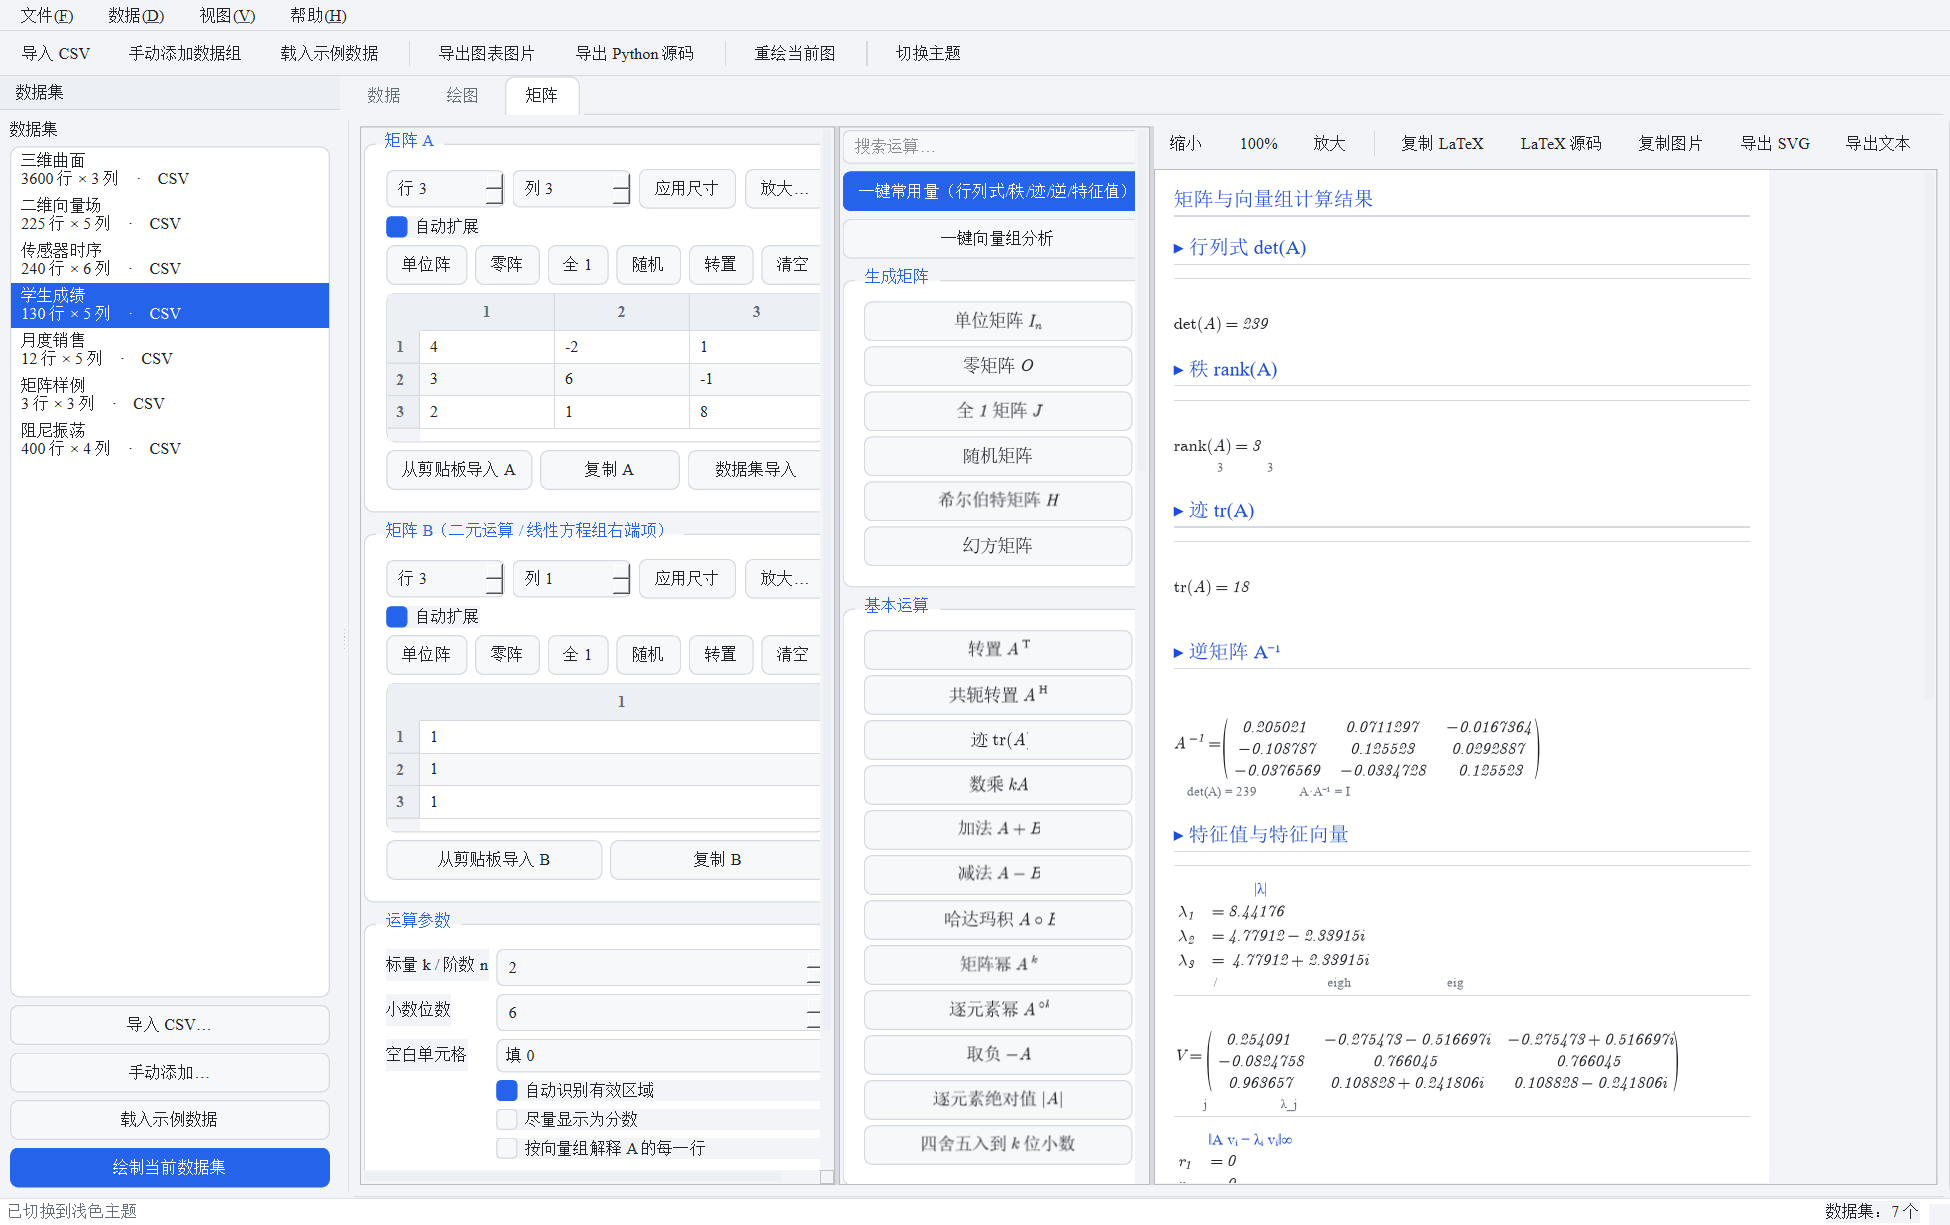
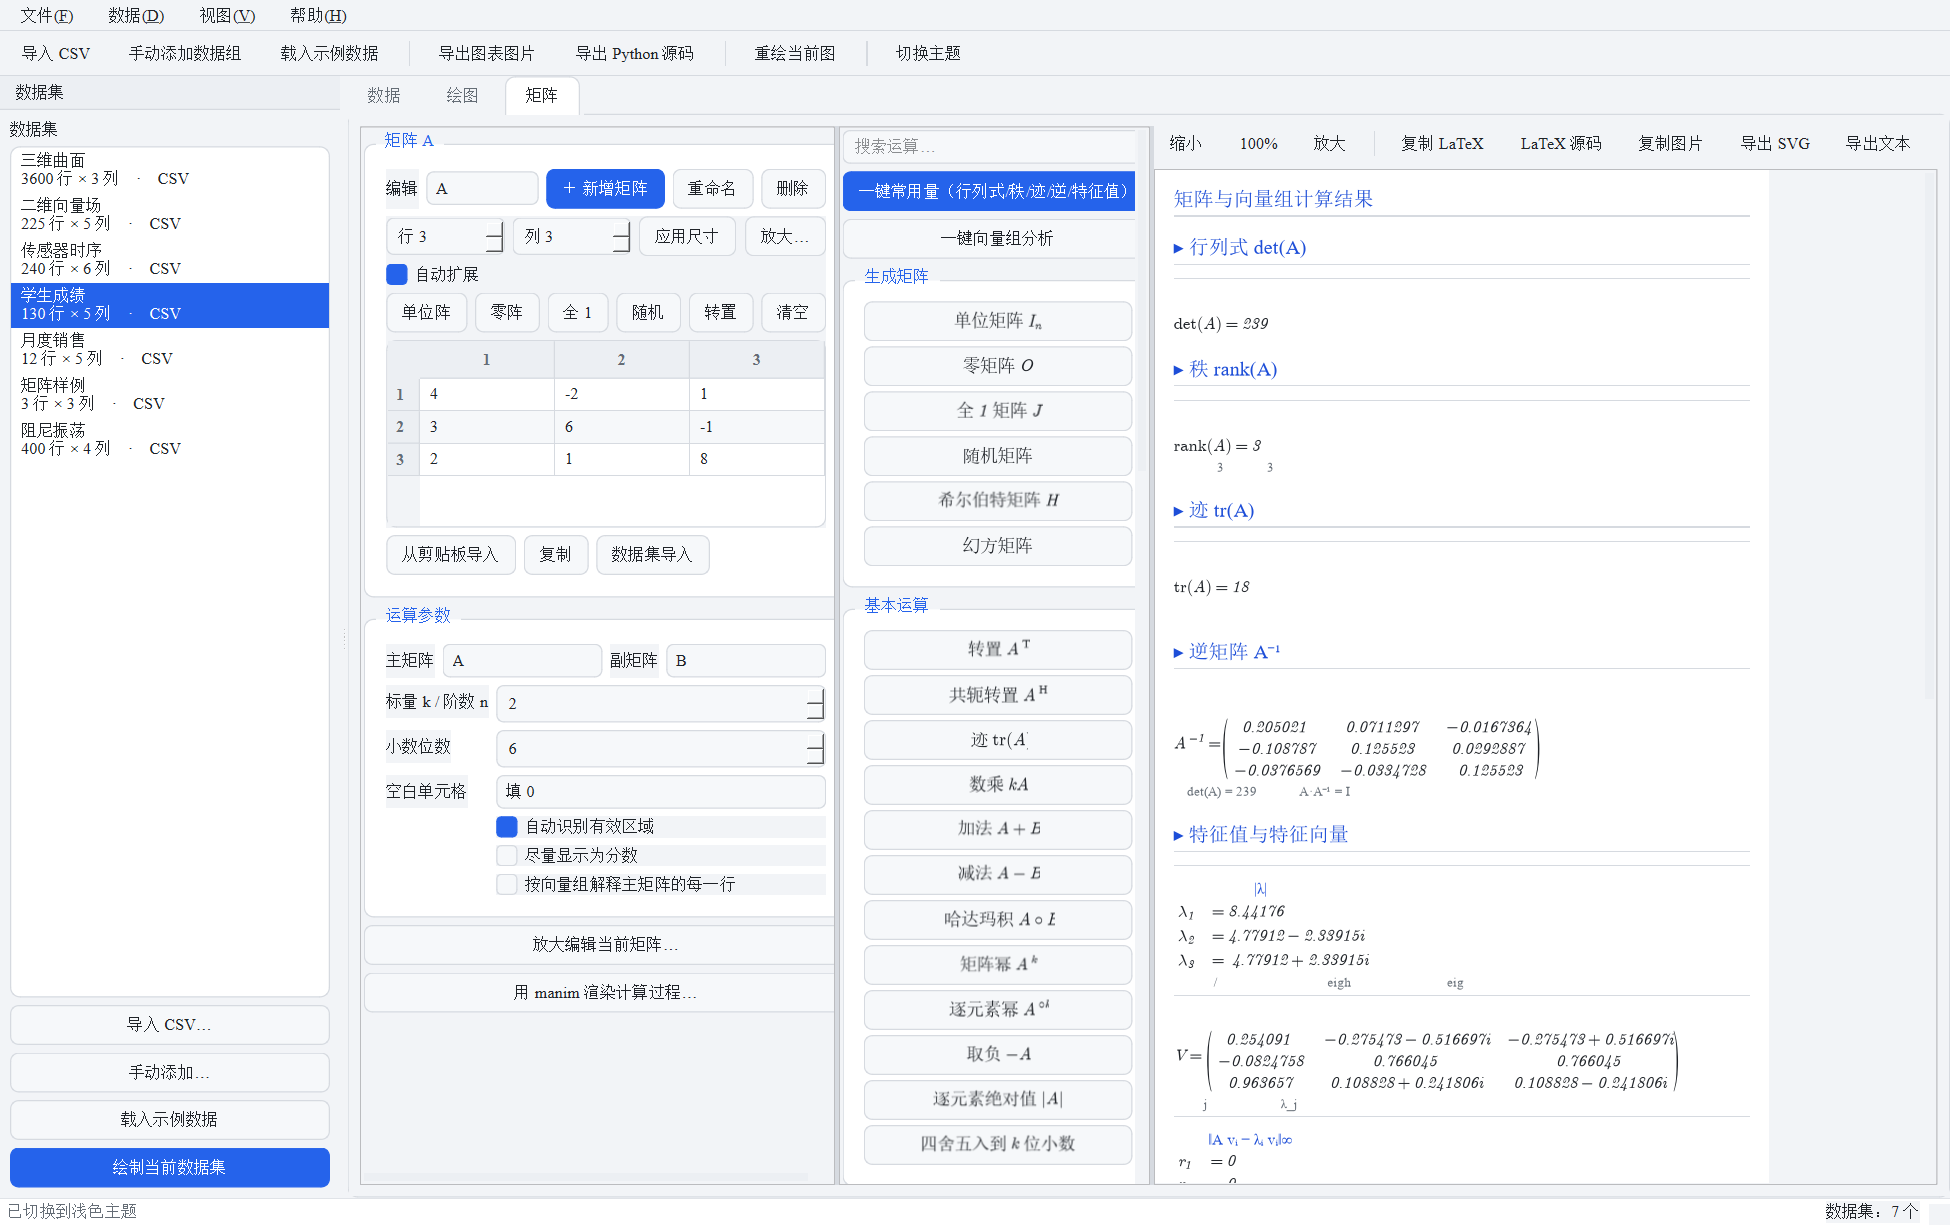
v1.3：多矩阵支持、方向键触发的自动扩展、放大编辑默认 15x15
- 矩阵从固定 A/B 改为一组可增删的矩阵：新增/重命名/删除，
  主矩阵/副矩阵下拉框决定运算与 manim 动画使用哪两个矩阵
- 矩阵页按钮改为作用于当前编辑的矩阵（从剪贴板导入/复制/数据集导入）
- 放大编辑窗口默认给出 15x15 大画布（旧版只有 3x3，等于没放大）
- 自动扩展改为方向键触发：最后一行按 ↓ / 最后一列按 → 才新增行列并跳到新空白格；
  填写数据或点击单元格不再凭空多出空行
- 行列上限 400 -> 600
- .gitignore 修复：_*.py 会误伤 __init__.py，改为根目录限定的 /_*.py
- 测试：88 项集成 + 48 项界面回归全部通过

diff --git a/tools/capture_screenshots.py b/tools/capture_screenshots.py
@@ -98,8 +98,15 @@ def main() -> int:
     win.tabs.setCurrentIndex(2)
     matrix_tab = win.matrix_tab
     matrix_tab.editor_a.set_matrix([[4, -2, 1], [3, 6, -1], [2, 1, 8]])
+    matrix_tab.editor_b.set_matrix([[1], [1], [1]])
+    # 演示「新增矩阵」：再加一个 C，并可被选为主/副矩阵参与运算
+    matrix_tab.add_matrix("C").set_matrix([[1, 0, 2], [0, 1, 0], [3, 0, 1]])
+    matrix_tab.main_combo.setCurrentText("A")
+    matrix_tab.other_combo.setCurrentText("B")
+    matrix_tab.editor_combo.setCurrentText("A")
+    app.processEvents()
     matrix_tab.run_common()
-    for _ in range(40):                              # 队列里是一个一个渲染的
+    for _ in range(40):                              # 队列里是一块一块渲染的
         app.processEvents()
         settle(120)
         if __import__("ui.widgets", fromlist=["latex_pixmaps"]).latex_pixmaps().pending() == 0:

diff --git a/ui/matrix_tab.py b/ui/matrix_tab.py
@@ -148,7 +148,7 @@ class MatrixTab(QWidget):
         self.editor_combo = QComboBox()
         self.editor_combo.setToolTip("选择当前要编辑的矩阵")
         self.editor_combo.currentIndexChanged.connect(self._on_editor_selected)
-        add_matrix_btn = QPushButton("＋ 新增矩阵")
+        add_matrix_btn = QPushButton("+ 新增矩阵")
         add_matrix_btn.setProperty("accent", "true")
         add_matrix_btn.setToolTip("添加一个新的矩阵（C、D、E…），可以一起参与运算与 manim 动画")
         add_matrix_btn.clicked.connect(lambda: self.add_matrix())
